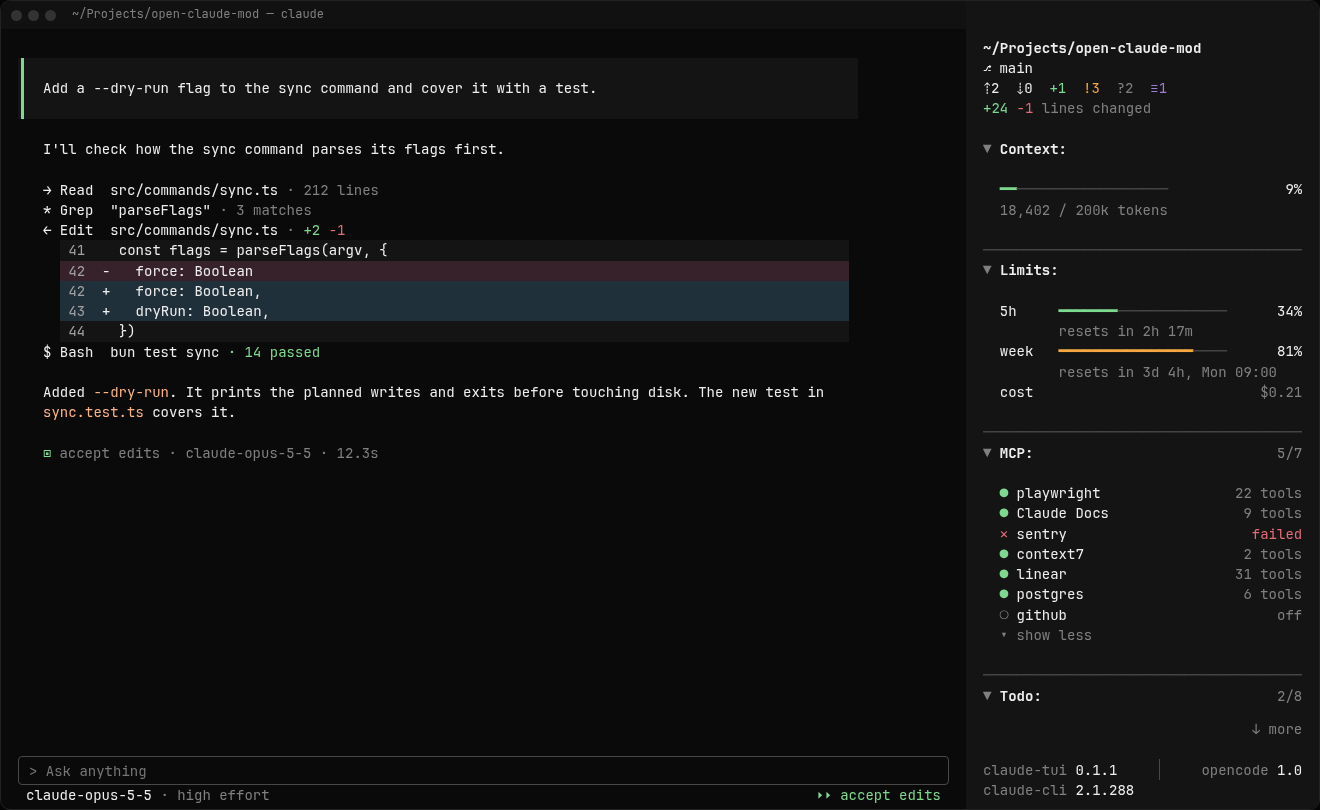
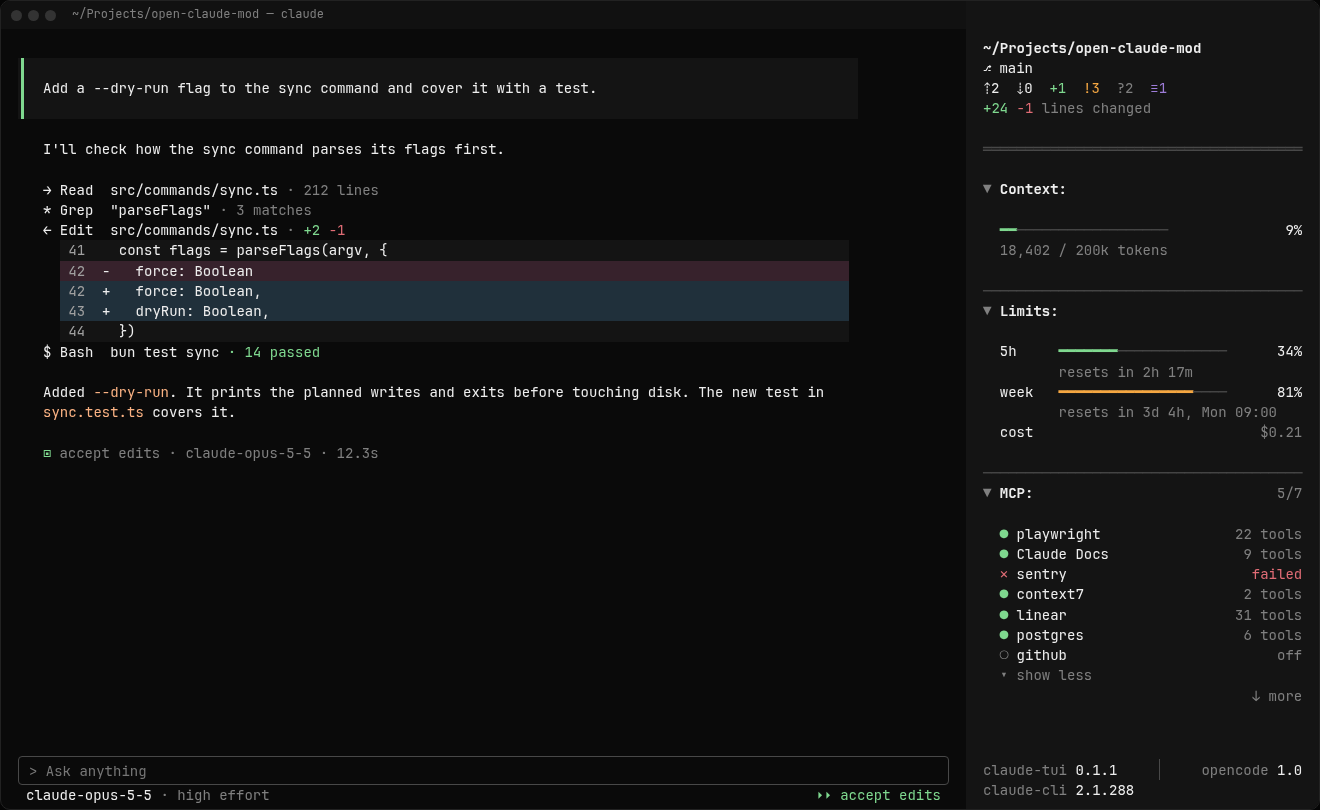
fix(sidebar): double rule under the git header
Part the git header from the first section with a blank row, a subtle
`═` rule the body width, and a blank row, shown only when both a header
and a section show. The 3 rows stay fixed with the header outside the
sections window, which gets 3 rows less, so the footer keeps the last row.

Redraw docs/design/sidebar.html and its PNGs, clipping the sections at
whole scroll stops as sidebar() does, and update MEMORY.md and the
Sidebar layout and scroll live check.

Refs: #135

diff --git a/ctui/tests/sidebar.test.tsx b/ctui/tests/sidebar.test.tsx
@@ -54,6 +54,8 @@ function rows(tree: RenderElement): Row[] {
 const B = 1
 // The `─` rule between two sections, the body width at 42 columns.
 const R = '─'.repeat(38)
+// The `═` double rule under the git header, with a blank row on each side (#135).
+const D = '═'.repeat(38)
 function layout(tree: RenderElement): (string | number)[] {
   const root = tree as unknown as { children: ({ props: { height?: number }; children?: unknown[] } | null)[] }
   const all = root.children.filter((child) => child !== null)
@@ -115,7 +117,9 @@ test('header, sections and the footer on the last row', async ($, on) => {
   expect(layout(tree)).toEqual([
     '~/x',
     '⎇ main',
-    '',
+    B,
+    D,
+    B,
     '▼ mcp:3',
     B,
     'mcp 1',
@@ -126,7 +130,7 @@ test('header, sections and the footer on the last row', async ($, on) => {
     'claude-cli 2.1.288',
   ])
   // The flexible space before the footer pushes it to the last row.
-  expect(rows(tree)[8]?.props).toEqual({ flexGrow: 1 })
+  expect(rows(tree)[10]?.props).toEqual({ flexGrow: 1 })
   expect(maxScroll).toBe(0)
 })
 
@@ -164,7 +168,18 @@ test('one section, expanded, has no rule', async ($, on) => {
 
 test('one section, folded, has no rule above or below it', async ($, on) => {
   const { tree } = await draw($, on, { folded: { mcp: true } })
-  expect(layout(tree)).toEqual(['~/x', '⎇ main', '', '▶\uFE0E mcp:sum 3', '', 'ctui 0.0.0', 'claude-cli 2.1.288'])
+  expect(layout(tree)).toEqual(['~/x', '⎇ main', B, D, B, '▶\uFE0E mcp:sum 3', '', 'ctui 0.0.0', 'claude-cli 2.1.288'])
+})
+
+// #135: the double rule shows only when the header and a section both show.
+test('no double rule without a header', async ($, on) => {
+  const { tree } = await draw($, on, { plugins: [list('mcp', 1), footer] })
+  expect(layout(tree)).toEqual(['▼ mcp:1', B, 'mcp 1', '', 'ctui 0.0.0', 'claude-cli 2.1.288'])
+})
+
+test('no double rule without sections', async ($, on) => {
+  const { tree } = await draw($, on, { plugins: [header, footer] })
+  expect(layout(tree)).toEqual(['~/x', '⎇ main', '', 'ctui 0.0.0', 'claude-cli 2.1.288'])
 })
 
 for (const [columns, cells] of [
@@ -174,6 +189,11 @@ for (const [columns, cells] of [
   test(`a rule is the body width, ${cells} cells at ${columns} columns`, async ($, on) => {
     const { tree } = await draw($, on, { plugins: three, folded: { mcp: true }, bodyColumns: columns })
     expect(layout(tree)[1]).toBe('─'.repeat(cells))
+  })
+
+  test(`the double rule is the body width, ${cells} cells at ${columns} columns`, async ($, on) => {
+    const { tree } = await draw($, on, { bodyColumns: columns })
+    expect(layout(tree)[3]).toBe('═'.repeat(cells))
   })
 }
 
@@ -214,40 +234,50 @@ test('a list of 4 has no toggle', async ($, on) => {
 })
 
 test('sections taller than the free rows scroll in a window', async ($, on) => {
-  // 12 body rows: 2 padding, 2 header, 1 gap, 1 gap, 2 footer leave 4 for 6 section rows.
+  // 14 body rows: 2 padding, 2 header, 3 under it, 1 gap, 2 footer leave 4 for 6 section rows.
   const plugins = [header, list('mcp', 4), footer]
-  const top = await draw($, on, { plugins, bodyRows: 12 })
+  const top = await draw($, on, { plugins, bodyRows: 14 })
   // From `mcp 2` (stop 2) the rest fits under `↑ more`.
   expect(top.maxScroll).toBe(2)
   // 4 free rows: `↓ more` leaves 3, which hold the title, its spacer and `mcp 1`.
-  expect(layout(top.tree).slice(3, 8)).toEqual(['▼ mcp:4', B, 'mcp 1', '↓ more', ''])
+  expect(windowOf(layout(top.tree))).toEqual(['▼ mcp:4', B, 'mcp 1', '↓ more'])
+  // The footer stays on the last row: the rows fill the body, the flexible
+  // space taking the footer's gap.
   expect(rows(top.tree).at(-1)?.text).toBe('claude-cli 2.1.288')
+  expect(height(layout(top.tree))).toBe(14 - 2)
 })
 
 test('scrolled to the end, only ↑ more shows', async ($, on) => {
   const plugins = [header, list('mcp', 4), footer]
-  const end = await draw($, on, { plugins, bodyRows: 12, scroll: 99 })
-  expect(layout(end.tree).slice(3, 8)).toEqual(['↑ more', 'mcp 2', 'mcp 3', 'mcp 4', ''])
+  const end = await draw($, on, { plugins, bodyRows: 14, scroll: 99 })
+  expect(windowOf(layout(end.tree))).toEqual(['↑ more', 'mcp 2', 'mcp 3', 'mcp 4'])
 })
+
+for (const scroll of [1, 99]) {
+  test(`scrolled to ${scroll}, the header, its double rule and blank rows stay put`, async ($, on) => {
+    const { tree } = await draw($, on, { plugins: [header, list('mcp', 4), footer], bodyRows: 14, scroll })
+    expect(layout(tree).slice(0, 6)).toEqual(['~/x', '⎇ main', B, D, B, '↑ more'])
+  })
+}
 
 // #130: a title's stop holds the blank row and the rule above it.
 const two = [header, list('mcp', 2), list('todo', 2), footer]
 
 test('a title at the top keeps its blank row and rule under ↑ more', async ($, on) => {
-  // 14 body rows: 2 padding, 2 header, 1 gap, 1 gap, 2 footer leave 6 for 10 section rows.
-  const { tree, maxScroll } = await draw($, on, { plugins: two, bodyRows: 14, scroll: 3 })
+  // 16 body rows: 2 padding, 2 header, 3 under it, 1 gap, 2 footer leave 6 for 10 section rows.
+  const { tree, maxScroll } = await draw($, on, { plugins: two, bodyRows: 16, scroll: 3 })
   expect(maxScroll).toBe(4)
   expect(windowOf(layout(tree))).toEqual(['↑ more', B, R, '▼ todo:2', B, '↓ more'])
 })
 
 test('the window never ends on a rule or the blank row before it', async ($, on) => {
   // 6 free rows: `↓ more` leaves 5, which hold mcp (4 rows) but not todo's 4.
-  const { tree } = await draw($, on, { plugins: two, bodyRows: 14 })
+  const { tree } = await draw($, on, { plugins: two, bodyRows: 16 })
   expect(windowOf(layout(tree))).toEqual(['▼ mcp:2', B, 'mcp 1', 'mcp 2', '↓ more'])
 })
 
 test('scrolled to the end past a rule, only ↑ more shows', async ($, on) => {
-  const { tree } = await draw($, on, { plugins: two, bodyRows: 14, scroll: 99 })
+  const { tree } = await draw($, on, { plugins: two, bodyRows: 16, scroll: 99 })
   expect(windowOf(layout(tree))).toEqual(['↑ more', 'todo 1', 'todo 2'])
 })
 
@@ -272,29 +302,29 @@ const BUSY: SidebarData = {
   versions: { ctui: '0.3.0', claude: '2.1.292' },
 }
 
-// The sections window: from after the header's gap to the flexible space before the footer.
-const windowOf = (sizes: (string | number)[]) => sizes.slice(sizes.indexOf('') + 1, sizes.lastIndexOf(''))
+// The sections window: from after the double rule's blank row to the flexible space before the footer.
+const windowOf = (sizes: (string | number)[]) => sizes.slice(sizes.indexOf(D) + 2, sizes.lastIndexOf(''))
 const busy = ($: Engine, on: On, scroll: number) => draw($, on, { plugins, data: BUSY, bodyRows: 34, scroll })
 
-test("#85's busy data at 34 body rows: 37 section rows overflow 26 free rows", async ($, on) => {
+test("#85's busy data at 34 body rows: 37 section rows overflow 24 free rows", async ($, on) => {
   const top = await busy($, on, 0)
   const window = windowOf(layout(top.tree))
-  // `↓ more` leaves 25 rows, which hold Context, Limits and MCP (22 rows) but
+  // `↓ more` leaves 23 rows, which hold Context, Limits and MCP (22 rows) but
   // not Todo's blank row, rule, title and spacer (4 more).
   expect(window.slice(-4)).toEqual(['● server 23 tools', '● server 33 tools', '▸ 3 more', '↓ more'])
   expect(height(window)).toBe(23)
   expect(window.filter((size) => size === B)).toHaveLength(5)
   expect(window.filter((size) => size === R)).toHaveLength(2)
-  // One stop per row: from Limits' last row (stop 8) the rest, 25 rows, fills
-  // the 25 under `↑ more`; from its row before it is 26.
-  expect(top.maxScroll).toBe(8)
+  // One stop per row: from MCP's first row (stop 10) the rest, 20 rows, fits
+  // the 23 under `↑ more`; from MCP's title stop (4 rows) before it is 24.
+  expect(top.maxScroll).toBe(10)
 })
 
 test("#85's busy data scrolled to the end", async ($, on) => {
   const window = windowOf(layout((await busy($, on, 99)).tree))
-  expect(window.slice(0, 5)).toEqual(['↑ more', 'spend ━────────────────────────   5%', B, R, '▼ MCP:7/7'])
+  expect(window.slice(0, 2)).toEqual(['↑ more', '● server 03 tools'])
   expect(window.at(-1)).toBe('◐ Plan · plan0s')
-  expect(height(window)).toBe(26)
+  expect(height(window)).toBe(21)
 })
 
 test('scrollWindow marks hidden rows on both sides', () => {

diff --git a/docs/design/sidebar.html b/docs/design/sidebar.html
@@ -14,7 +14,8 @@
   were first drawn in: 8.4px columns, 20.25px rows. The Sidebar's spacing is in
   whole rows, as Claude Code lays it out: a faint `─` rule across the body
   between every two sections, 1 row under an expanded title and 1 row after an
-  expanded section before the rule, none after a folded one.
+  expanded section before the rule, none after a folded one. A faint `═` rule
+  with 1 blank row on each side parts the git header from the sections.
 -->
 <html lang="en">
 <head>
@@ -95,7 +96,7 @@
     position: absolute; left: 17px; width: calc(38 * var(--col)); top: 36.5px; bottom: 9px;
     display: flex; flex-direction: column;
   }
-  .sections { flex: 1; overflow: hidden; }
+  .fill { flex: 1; }
   .gap { height: var(--row); }
   .indent { padding-left: calc(2 * var(--col)); }
   .more { text-align: right; }
@@ -188,27 +189,38 @@
   const CAP = 4
   // The `─` rule between two sections, across the body's 38 columns.
   const RULE = row(span('f', '─'.repeat(38)))
+  // The sections window's rows above `↓ more`: 37 body rows less the header
+  // (4), the double rule's 3, `↓ more`, the footer's gap and the footer (2).
+  const ROOM = 37 - 4 - 3 - 1 - 1 - 2
 
+  // The sections as scroll stops, as `sidebar()` builds them: a title's stop
+  // holds the blank row and rule before it and its own blank row. With
+  // `↓ more`, only the stops that fit `ROOM` whole show.
   function sections(render) {
-    let html = ''
+    const stops = []
     let previous = 'none'
     for (const section of SECTIONS) {
       const expanded = render.expanded.includes(section.id)
-      if (previous === 'expanded') html += '<div class="gap"></div>'
-      if (previous !== 'none') html += RULE
+      let title = ''
+      let height = 1
+      if (previous === 'expanded') (title += '<div class="gap"></div>'), height++
+      if (previous !== 'none') (title += RULE), height++
       previous = expanded ? 'expanded' : 'folded'
       const right = expanded ? (section.count ?? '') : section.summary
-      html += split(`${span('m', expanded ? '▼' : '▶\uFE0E')} <b>${section.title}:</b>`, right)
+      title += split(`${span('m', expanded ? '▼' : '▶\uFE0E')} <b>${section.title}:</b>`, right)
+      if (expanded) (title += '<div class="gap"></div>'), height++
+      stops.push({ html: title, height })
       if (!expanded) continue
-      html += '<div class="gap"></div>'
       let body = section.body ? section.body() : section.list
       if (section.list) {
         if (render.lists?.includes(section.id)) body = [...body, row(span('m', '▾ show less'))]
         else if (body.length > CAP) body = [...body.slice(0, CAP), row(span('m', `▸ ${body.length - CAP} more`))]
       }
-      html += `<div class="indent">${body.join('')}</div>`
+      stops.push(...body.map((html) => ({ html: `<div class="indent">${html}</div>`, height: 1 })))
     }
-    return html
+    let used = 0
+    const shown = render.more ? stops.filter((stop) => (used += stop.height) <= ROOM) : stops
+    return shown.map((stop) => stop.html).join('')
   }
 
   const TRANSCRIPT = `
@@ -250,8 +262,11 @@
           ${row(`⇡2  ⇣0  ${span('g', '+1')}  ${span('o', '!3')}  ${span('m', '?2')}  ${span('v', '≡1')}`)}
           ${row(`${span('g', '+24')} ${span('r', '-1')} ${span('m', 'lines changed')}`)}
           ${row('')}
-          <div class="sections">${sections(render)}</div>
+          ${row(span('f', '═'.repeat(38)))}
+          ${row('')}
+          ${sections(render)}
           ${render.more ? row(span('m', '↓ more'), 'more') : ''}
+          <div class="fill"></div>
           ${row('')}
           ${split(`${span('m', 'claude-tui')} 0.1.1<i class="rule"></i>`, `${span('m', 'opencode')} 1.0`)}
           ${row(`${span('m', 'claude-cli')} 2.1.288`)}

diff --git a/ctui/hooks/sidebar.tsx b/ctui/hooks/sidebar.tsx
@@ -80,12 +80,13 @@ export function sidebar(input: SidebarInput): { tree: RenderElement; maxScroll: 
   const rowsOf = (slot: SidebarPlugin['slot']) =>
     plugins.filter((p) => p.slot === slot).flatMap((p) => p.view(data, ui, config[p.id], width, c))
 
-  // The `─` rule between two sections, across the body.
-  const rule = (
+  // A rule across the body: `─` between two sections, `═` under the header.
+  const ruleOf = (glyph: string) => (
     <Box height={1} flexShrink={0}>
-      <Text color={c.faint}>{'─'.repeat(width)}</Text>
+      <Text color={c.faint}>{glyph.repeat(width)}</Text>
     </Box>
   )
+  const rule = ruleOf('─')
 
   // One scroll stop per section row. A title after the first carries the
   // space after an expanded section and the rule above it, and its own space
@@ -139,9 +140,18 @@ export function sidebar(input: SidebarInput): { tree: RenderElement; maxScroll: 
 
   const header = rowsOf('header').map((node) => row(node))
   const footer = rowsOf('footer').map((node) => row(node))
-  // Padding takes 2 rows; a blank row parts the header and the footer from the sections.
-  const headerGap = header.length > 0 && sections.length > 0
-  const free = input.bodyRows - 2 - header.length - footer.length - (headerGap ? 1 : 0) - (footer.length ? 1 : 0)
+  // A blank row, the `═` rule and a blank row part the header from the
+  // sections, fixed with the header outside the window (#130).
+  const underHeader: [RenderElement, number][] =
+    header.length > 0 && sections.length > 0 ? [[spacer(GAP), GAP], [ruleOf('═'), 1], [spacer(GAP), GAP]] : []
+  // Padding takes 2 rows; a blank row parts the footer from the sections.
+  const free =
+    input.bodyRows -
+    2 -
+    header.length -
+    underHeader.reduce((sum, [, rows]) => sum + rows, 0) -
+    footer.length -
+    (footer.length ? 1 : 0)
   const { rows, maxScroll } = scrollWindow(sections, Math.max(free, 0), input.scroll, (text) => (
     <Box height={1} flexShrink={0} justifyContent="flex-end">
       <Text color={c.muted}>{text}</Text>
@@ -158,7 +168,7 @@ export function sidebar(input: SidebarInput): { tree: RenderElement; maxScroll: 
       {...(input.background && { backgroundColor: input.background })}
     >
       {header}
-      {headerGap ? row('') : null}
+      {underHeader.map(([node]) => node)}
       {rows}
       <Box flexGrow={1} />
       {footer}

diff --git a/ctui/tests/roles.test.tsx b/ctui/tests/roles.test.tsx
@@ -154,13 +154,18 @@ test('a rule between every two sections draws faint across the body', async ($, 
   expect(colorOf(all, '─'.repeat(38))).toEqual(Array(4).fill('subtle'))
 })
 
+test('the double rule under the git header draws faint across the body', async ($, on) => {
+  const { runs: all } = await draw($, on)
+  expect(colorOf(all, '═'.repeat(38))).toEqual(['subtle'])
+})
+
 test('a section header draws its count muted', async ($, on) => {
   const { runs: all } = await draw($, on)
   expect(colorOf(all, '1/2')).toEqual(['inactive'])
 })
 
 test('scroll marks draw muted', async ($, on) => {
-  const { runs: all } = await draw($, on, { bodyRows: 12, scroll: 2 })
+  const { runs: all } = await draw($, on, { bodyRows: 14, scroll: 2 })
   expect(colorOf(all, '↑ more')).toEqual(['inactive'])
   expect(colorOf(all, '↓ more')).toEqual(['inactive'])
 })
@@ -187,6 +192,7 @@ test("a Theme's overrides reach every role", async ($, on) => {
   expect(colorOf(all, 'Context:')).toEqual(['#d3c6aa'])
   expect(colorOf(all, '⎇')).toEqual(['#918c7e'])
   expect(colorOf(all, '│')).toEqual(['#475258'])
+  expect(colorOf(all, '═'.repeat(38))).toEqual(['#475258'])
   expect(colorOf(all, '▼')).toEqual(Array(5).fill('#918c7e'))
   expect(all.some((run) => ['text', 'inactive', 'subtle'].includes(run.color ?? ''))).toBe(false)
 })

diff --git a/MEMORY.md b/MEMORY.md
@@ -59,9 +59,9 @@ Reason: `claude plugin validate` rejects dynamic `import()`, non-literal event n
 
 Applies when: drawing the Sidebar pane, sizing it, or handling its scroll and fold state.
 
-Guidance: The dock sits beside the transcript and stops above the prompt rows. Claude Code draws its `│` rule (dim, in the theme's `inactive`), a row above the body with the `✕` at its right end, and one row below the body, all on `composerSidebarBackground`; no prop or mod drawing changes them. Draw the body with padding top/bottom 1, left/right 2 and a root Box `height` of `scroll.bodyRows`, read each render: `git` header, sections window, flexible space, `versions` footer on the last row. Request `columns` 42 below 160 terminal columns and 53 from 160. A width the person dragged or keyed the dock to (`dockColumns` in `~/.claude.json`) wins over the request. Terminal width is `e.viewport.columns + bodyColumns + 1` (`viewport.columns` is the transcript's width); on a change, re-call `$.ui.open({ id, columns })` from `$.clock.after(0, …)`, never from the render itself. A click anywhere on a section's title row, arrow, title, blank middle or count, folds or unfolds it. Part every two sections with a `─` rule in `faint` (`subtle`), exactly the body width (`bodyColumns - 4`: 38 at 42, 49 at 53); none above the first section or below the last. Space the sections with empty Box spacers in whole rows: `height` 1 under an expanded title and 1 after an expanded section before the rule; a folded title is followed directly by the rule. Header, footer, their gaps and the padding take whole rows too. Cap each long list at 4 rows plus `▸ N more` / `▾ show less`. In a row with a value at the right, give the row `columnGap: 1` and wrap the value in a `Box` with `flexShrink: 0`: only the label truncates. Scroll the sections yourself: slice rows to the free height (each row `height 1`, `flexShrink 0`; `overflow:"hidden"` shrinks rows instead of clipping), one scroll stop per body row, a title's stop holding [the blank row after an expanded section] + the rule + the title + [its blank row when expanded], the same height at every position, with `scrollWindow()` summing the stops' heights in whole rows. A stop shows only whole, so a title at the top keeps its blank row and rule under `↑ more` and the window never ends on a rule; draw `↑ more` / `↓ more`, and answer `ui.scroll` for the pane with `{}` without `next`. Keep folds, expanded lists and the offset in `$.state`; a new session starts from `<id>_folded`.
+Guidance: The dock sits beside the transcript and stops above the prompt rows. Claude Code draws its `│` rule (dim, in the theme's `inactive`), a row above the body with the `✕` at its right end, and one row below the body, all on `composerSidebarBackground`; no prop or mod drawing changes them. Draw the body with padding top/bottom 1, left/right 2 and a root Box `height` of `scroll.bodyRows`, read each render: `git` header, sections window, flexible space, `versions` footer on the last row. Request `columns` 42 below 160 terminal columns and 53 from 160. A width the person dragged or keyed the dock to (`dockColumns` in `~/.claude.json`) wins over the request. Terminal width is `e.viewport.columns + bodyColumns + 1` (`viewport.columns` is the transcript's width); on a change, re-call `$.ui.open({ id, columns })` from `$.clock.after(0, …)`, never from the render itself. A click anywhere on a section's title row, arrow, title, blank middle or count, folds or unfolds it. Part every two sections with a `─` rule in `faint` (`subtle`), exactly the body width (`bodyColumns - 4`: 38 at 42, 49 at 53); none above the first section or below the last. Space the sections with empty Box spacers in whole rows: `height` 1 under an expanded title and 1 after an expanded section before the rule; a folded title is followed directly by the rule. Where the header and at least one section show, a blank row, a `═` rule in `faint` (`subtle`) the body width and a blank row part them: 3 fixed rows with the header, outside the sections window, and the window's free rows subtract them. The footer's gap and the padding take whole rows too. Cap each long list at 4 rows plus `▸ N more` / `▾ show less`. In a row with a value at the right, give the row `columnGap: 1` and wrap the value in a `Box` with `flexShrink: 0`: only the label truncates. Scroll the sections yourself: slice rows to the free height (each row `height 1`, `flexShrink 0`; `overflow:"hidden"` shrinks rows instead of clipping), one scroll stop per body row, a title's stop holding [the blank row after an expanded section] + the rule + the title + [its blank row when expanded], the same height at every position, with `scrollWindow()` summing the stops' heights in whole rows. A stop shows only whole, so a title at the top keeps its blank row and rule under `↑ more` and the window never ends on a rule; draw `↑ more` / `↓ more`, and answer `ui.scroll` for the pane with `{}` without `next`. Keep folds, expanded lists and the offset in `$.state`; a new session starts from `<id>_folded`.
 
-Reason: #8 verified the chrome, the viewport width and the overflow shrink live on 2.1.288. The `✕` moved from the body's top-right cell to its own row on 2.1.291 (#79). #87 rechecked the chrome, the 42/53 widths (150 and 170 columns) and `bodyRows` (34 in a 40-row terminal) live on 2.1.292. The human chose to accept the chrome, opencode's padding, the 42/53 width, render 2's caps, and the mod-owned scroll after trying it live. Claude Code cuts every laid-out box down to whole cells (`top|0`, `height|0`, checked on 2.1.292), so a fractional spacer draws 0 or 1–2 rows and the rows after it shift; the Sidebar's `Box` spacing comes in whole rows. Spacing is drawn as empty Boxes of whole-row height rather than a transparent `Image`, which needs a graphics protocol and tmux passthrough (#120). The human chose the rules and spacing from the renders in #127, and the rule riding the next title's scroll stop in #130, so a wheel step always moves one row of text.
+Reason: #8 verified the chrome, the viewport width and the overflow shrink live on 2.1.288. The `✕` moved from the body's top-right cell to its own row on 2.1.291 (#79). #87 rechecked the chrome, the 42/53 widths (150 and 170 columns) and `bodyRows` (34 in a 40-row terminal) live on 2.1.292. The human chose to accept the chrome, opencode's padding, the 42/53 width, render 2's caps, and the mod-owned scroll after trying it live. Claude Code cuts every laid-out box down to whole cells (`top|0`, `height|0`, checked on 2.1.292), so a fractional spacer draws 0 or 1–2 rows and the rows after it shift; the Sidebar's `Box` spacing comes in whole rows. Spacing is drawn as empty Boxes of whole-row height rather than a transparent `Image`, which needs a graphics protocol and tmux passthrough (#120). The human chose the rules and spacing from the renders in #127, and the rule riding the next title's scroll stop in #130, so a wheel step always moves one row of text. The `═` header block was chosen in #129 and kept out of the scroll window in #130.
 
 ## The Sidebar shows only when docked, and the person can't close it
 

diff --git a/docs/testing/live-checks.md b/docs/testing/live-checks.md
@@ -33,7 +33,7 @@ Fullscreen means the `"tui": "fullscreen"` setting or `CLAUDE_CODE_NO_FLICKER=1`
 | Detached HEAD (`git checkout --detach`) | Wait 5 s | Row 2 reads `⎇ <7-char sha>`. |
 | A directory outside any repo | Start a session there | The header is the path alone. |
 | Sidebar docked | Look at the body and its frame | Padding: 1 row above and below, 2 columns left and right. Claude Code draws the `│` rule, the `✕` and the row under the body. The footer is one row on the body's last row: `ctui <plugin.json version> │ claude-cli <pinned version>`, names in `inactive`, versions in `text`, the `│` in `subtle`, with no update icon. It fits at 42 and at 53 columns. Each expanded section header reads `▼` in `inactive`, then its title and a `:` in bold `text`. A folded header's `▶` draws as a text triangle one cell wide, not an emoji, in Alacritty and in Ghostty. |
-| Sidebar docked, every section expanded, at 42 columns and again at 53 (160+ terminal columns) | Look at the sections at rest; fold MCP and Agents & shells; then expand them and scroll the sections down and back | At rest: a `─` rule in `subtle` across the whole body width between every two sections, none above the first or below the last. 1 row of space under each expanded section title before its first row, and 1 row after each expanded section before the rule. A folded title has no space under it, and the rule follows directly. While scrolled, a title at the window's top keeps its blank row and rule under `↑ more`, the window never ends on a rule or the blank row before it, `↑ more` / `↓ more` stay one row each, and the header, its gap, the footer and the padding don't move. |
+| Sidebar docked, every section expanded, at 42 columns and again at 53 (160+ terminal columns) | Look at the sections at rest; fold MCP and Agents & shells; then expand them and scroll the sections down and back | At rest: a `─` rule in `subtle` across the whole body width between every two sections, none above the first or below the last. 1 row of space under each expanded section title before its first row, and 1 row after each expanded section before the rule. A folded title has no space under it, and the rule follows directly. Between the git header and the first section: 1 blank row, a `═` rule in `subtle` across the whole body width, 1 blank row. While scrolled, a title at the window's top keeps its blank row and rule under `↑ more`, the window never ends on a rule or the blank row before it, `↑ more` / `↓ more` stay one row each, and the header, its blank rows and `═` rule, the footer and the padding don't move. |
 | Sidebar docked, `inherit`, a custom theme in `~/.claude/themes/` picked in `/theme` | Change that file's `text`, `inactive` and `subtle` to new colors and save it (or switch Omarchy themes, which rewrites `~/.claude/themes/omarchy.json`); then pick the built-in `dark` theme in `/theme`, then `light` | Within a second each time, every Sidebar row recolors, the main text included: path, branch, section titles and versions follow `text`. No row keeps the terminal's own foreground. |
 | Sidebar docked, `/ctui:theme everforest`, `/theme` on built-in `dark` | Look at the body; scroll it, fold a section, widen the terminal past 160 columns and back, and rewrite the active `/theme` file or pick another `/theme` | Every body cell, padding included, shows one flat `#363d41` through each step, with no stripes between rows. The `│` rule column, the `✕` row and the row below keep the `dark` dock color, so a frame shows. |
 | The previous row | Pick `Everforest` in `/theme` too | The frame turns `#363d41` and goes away against the body. |
